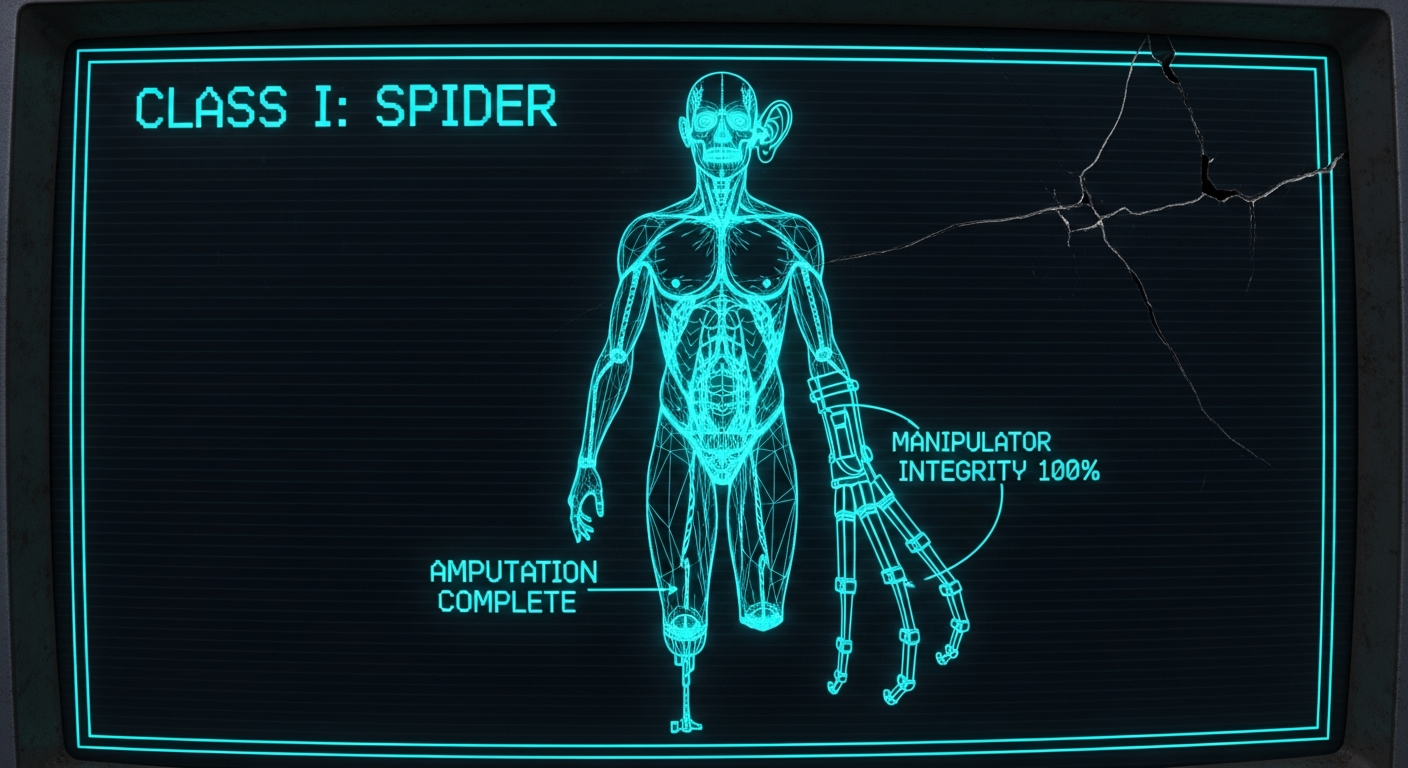
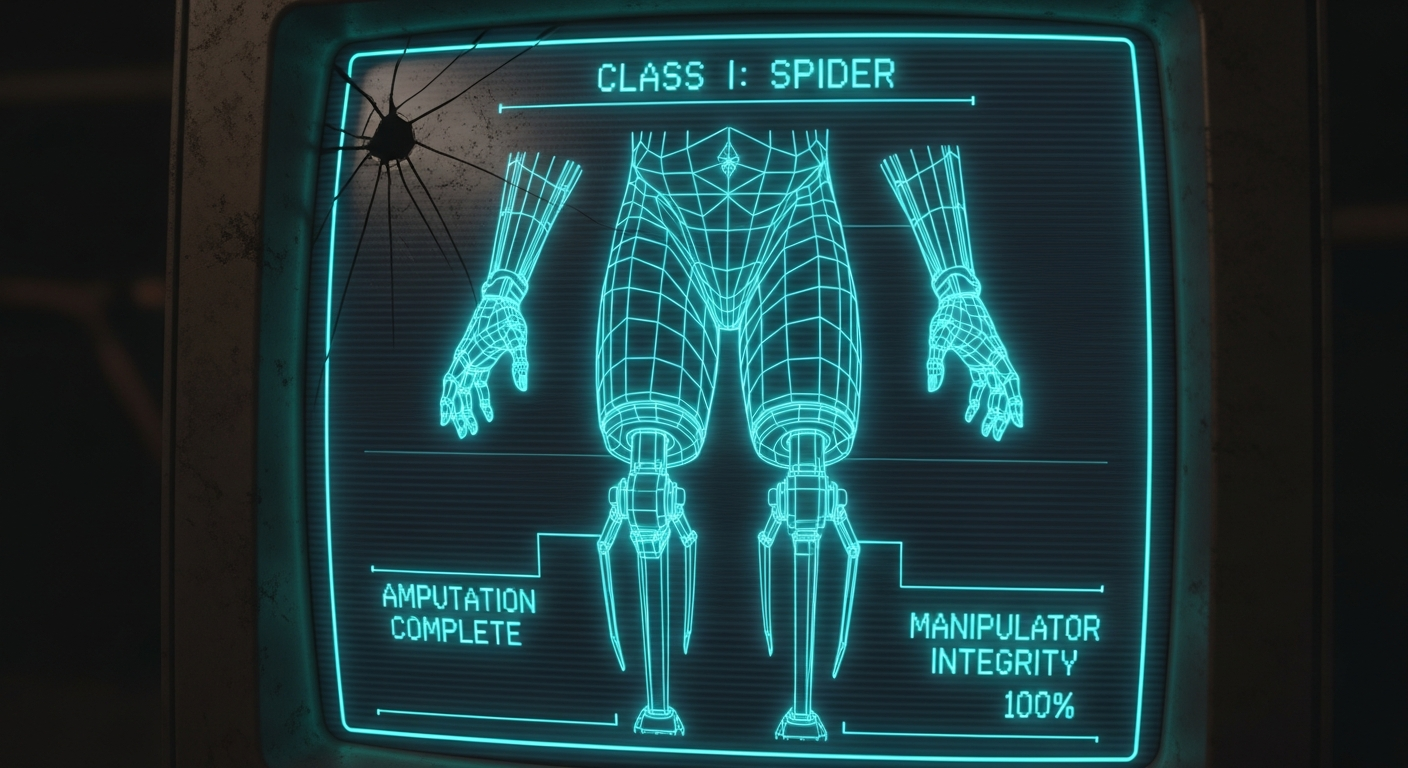
visuals and aider

diff --git a/content/lore/the-strip.md b/content/lore/the-strip.md
@@ -51,7 +51,7 @@ In the Belt, an unaugmented adult is viewed with suspicion. They are called **"D
 
 <!--
 TARGET: blueprint-spider
-PROMPT: Diegetic medical monitor screen, glowing cyan wireframe vector graphics on a dirty cracked CRT display. Anatomy schematic of a human "Spider" variant. Legs amputated at the knee, replaced with mechanical prehensile hand manipulators. Inner ear removed. Text labels "CLASS I: SPIDER", "AMPUTATION COMPLETE", "MANIPULATOR INTEGRITY 100%". Scanlines, screen burn-in, low fidelity.
+PROMPT: Diegetic medical monitor screen, glowing cyan wireframe vector graphics on a dirty cracked CRT display. Anatomy schematic of a human "Spider" variant. Legs amputated at the knee, replaced with mechanical prehensile hand manipulators. Hands are normal. Inner ear dampened. Text labels "CLASS I: SPIDER", "AMPUTATION COMPLETE", "MANIPULATOR INTEGRITY 100%". Scanlines, screen burn-in, low fidelity.
 
 NEVER display the prompt text to the reader.
 -->
